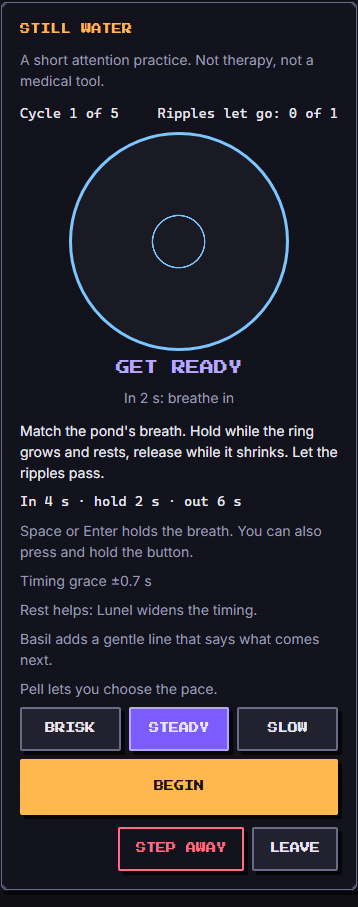
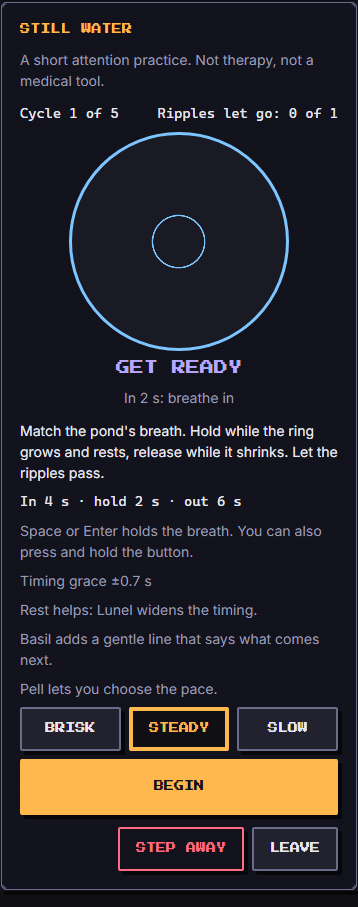
test(games): Still Water e2e passes on both projects; toggle contrast fixed, screenshots refreshed [game-still-water]

Changed region(s): [[0.338, 0.7718, 0.6453, 0.8335]]

diff --git a/e2e/games/still-water.spec.ts b/e2e/games/still-water.spec.ts
@@ -13,9 +13,7 @@ import { botPlayToOutcome, expectNoSeriousA11yViolations, expectResponsiveGame, 
 
 const ID = 'still-water';
 const TICK_MS = 50;
-/** Difficulty 1: breathe in 4 s, hold 2 s, breathe out 6 s; two seconds of get-ready first. */
-const IN_AND_HOLD_MS = 6000;
-const OUT_MS = 6000;
+/** Two seconds of get-ready come before the first breath in. */
 const LEAD_MS = 2000;
 
 /** Take over the page's clock: time only moves when the test runs it. */
@@ -31,11 +29,11 @@ async function begin(page: Page): Promise<void> {
 }
 
 /** One scripted perfect cycle with the keyboard: hold for the breath in and the rest, let go for the breath out. */
-async function perfectCycle(page: Page): Promise<void> {
+async function perfectCycle(page: Page, holdMs: number, outMs: number): Promise<void> {
   await page.keyboard.down('Space');
-  await page.clock.runFor(IN_AND_HOLD_MS);
+  await page.clock.runFor(holdMs);
   await page.keyboard.up('Space');
-  await page.clock.runFor(OUT_MS);
+  await page.clock.runFor(outMs);
 }
 
 const stage = (page: Page) => page.getByTestId('lab-stage');
@@ -82,18 +80,19 @@ test('plays a full game to an outcome', async ({ page }, testInfo) => {
 });
 
 // 3. Required: replaying the same seed gives the same outcome. The scripted player breathes one perfect
-// cycle and then steps away: a partial score and log that depend on every tick being the same.
+// cycle (difficulty 5: 3 s in, 1 s rest, 3.5 s out) and then steps away: a partial score and log that depend
+// on every tick being the same.
 test('replaying the same seed gives the same outcome', async ({ page }) => {
-  await openLab(page, ID, { seed: 42, reducedMotion: false, party: 'single', difficulty: 1 });
+  await openLab(page, ID, { seed: 42, reducedMotion: false, party: 'full', difficulty: 5 });
   await freezeClock(page);
   const outcome = await replaySameSeed(page, async () => {
     await begin(page);
-    await perfectCycle(page);
+    await perfectCycle(page, 4000, 3500);
     await stage(page).getByRole('button', { name: 'Step away' }).click();
   });
   expect(outcome.result).toBe('fled');
-  // One perfect cycle of five, ceiling 900 (the ripple has not passed yet, the calm is whole).
-  expect(outcome.score).toBe('180');
+  // One perfect cycle of eight, ceiling 900 (no ripple has passed yet, the calm is whole): 100 x 900 / 800, rounded.
+  expect(outcome.score).toBe('113');
   expect(outcome.log).toMatch(/Cycle 1: the breath matched 100 %/);
 });
 
@@ -131,13 +130,13 @@ test('a higher difficulty breathes faster, and a Move troop can choose the pace'
   await openLab(page, ID, { seed: 9, difficulty: 5, party: 'single' });
   expect((await rhythm.innerText()).replace(/\s/g, ' ')).toBe('In 3 s · hold 1 s · out 3.5 s');
   await expect(page.getByRole('button', { name: 'Slow' })).toHaveCount(0);
+  await expectResponsiveGame(page);
 });
 
 test('reduced motion keeps the text cue with a bar instead of the ring; small and landscape phones fit', async ({ page }, testInfo) => {
   await openLab(page, ID, { seed: 2, party: 'mixed', reducedMotion: true, difficulty: 3 });
   await expect(page.getByTestId('still-water-pond')).toHaveCount(0);
   await expect(page.getByRole('progressbar', { name: 'Breath' })).toBeVisible();
-  await expectResponsiveGame(page);
   await freezeClock(page);
   await begin(page);
   await expect(page.getByTestId('still-water-phase')).toHaveText('Breathe in');
